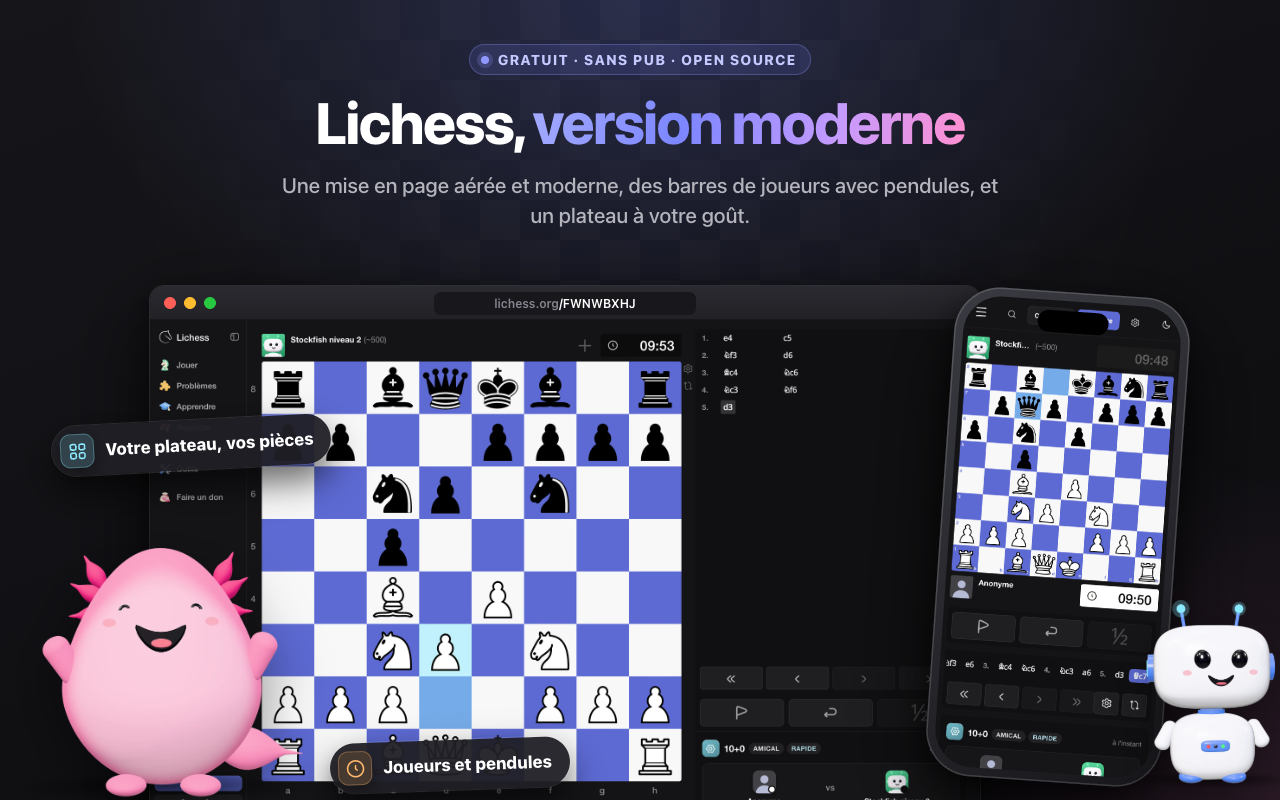
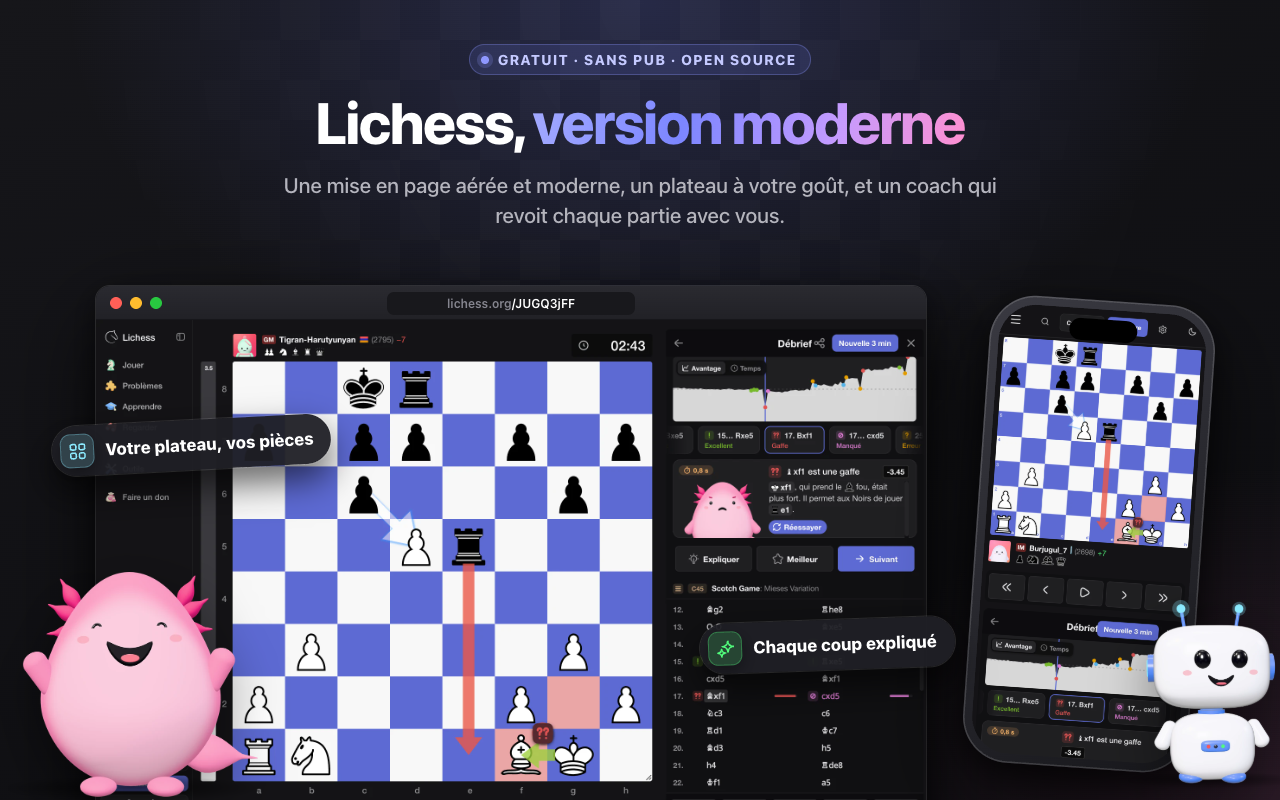
Show a game's Debrief on the first store image

Changed region(s): [[0.0, 0.3438, 0.9688, 1.0], [0.2188, 0.2188, 0.7812, 0.2812], [0.5625, 0.9688, 0.625, 1.0]]

diff --git a/store/templates/1-game.html b/store/templates/1-game.html
@@ -27,21 +27,21 @@
 
   .window {
     top: 286px;
-    left: 150px;
+    left: 96px;
     width: 830px;
   }
 
   .phone {
-    top: 292px;
-    left: 940px;
-    width: 236px;
+    top: 300px;
+    left: 976px;
+    width: 226px;
     transform: rotate(4deg);
   }
 
   .axolotl {
-    top: 548px;
-    left: 26px;
-    height: 252px;
+    top: 572px;
+    left: 8px;
+    height: 228px;
   }
 
   .robot {
@@ -56,9 +56,9 @@
     transform: rotate(-3deg);
   }
 
-  .bars {
-    top: 740px;
-    left: 330px;
+  .explained {
+    top: 620px;
+    left: 700px;
     transform: rotate(-2deg);
   }
 </style>
@@ -67,22 +67,22 @@
   <span class="pill"><span lang="en">Free · No ads · Open source</span><span lang="fr">Gratuit · Sans pub · Open source</span></span>
   <h1 lang="en">Lichess, <em>made modern</em></h1>
   <h1 lang="fr">Lichess, <em>version moderne</em></h1>
-  <p class="sub" lang="en">A roomy, modern layout, player bars with clocks, and a board that’s yours.</p>
-  <p class="sub" lang="fr">Une mise en page aérée et moderne, des barres de joueurs avec pendules, et un plateau à votre goût.</p>
+  <p class="sub" lang="en">A roomy, modern layout, a board that’s yours, and a coach who goes over each game with you.</p>
+  <p class="sub" lang="fr">Une mise en page aérée et moderne, un plateau à votre goût, et un coach qui revoit chaque partie avec vous.</p>
 </header>
 
 <div class="window">
-  <p><span>lichess.org<b lang="en">/IFGhQdJO</b><b lang="fr">/FWNWBXHJ</b></span></p>
-  <img lang="en" src="shots/game-en.webp">
-  <img lang="fr" src="shots/game-fr.webp">
+  <p><span>lichess.org<b>/JUGQ3jFF</b></span></p>
+  <img lang="en" src="shots/review-blunder-en.webp">
+  <img lang="fr" src="shots/review-blunder-fr.webp">
 </div>
 <div class="phone">
-  <img lang="en" src="shots/phone-game-en.webp">
-  <img lang="fr" src="shots/phone-game-fr.webp">
+  <img lang="en" src="shots/phone-review-en.webp">
+  <img lang="fr" src="shots/phone-review-fr.webp">
 </div>
 
 <img class="coach axolotl" src="coaches/coach-4-delight.webp">
 <img class="coach robot" src="coaches/robot-2-happy.webp">
 
 <p class="chip board"><span class="tile cyan i-grid"></span><span lang="en">Your board, your pieces</span><span lang="fr">Votre plateau, vos pièces</span></p>
-<p class="chip bars"><span class="tile orange i-clock"></span><span lang="en">Player bars &amp; clocks</span><span lang="fr">Joueurs et pendules</span></p>
+<p class="chip explained"><span class="tile green i-sparkles"></span><span lang="en">Every move explained</span><span lang="fr">Chaque coup expliqué</span></p>

diff --git a/README.md b/README.md
@@ -8,7 +8,7 @@ game.
 Your Lichess account, your games and your friends don't change. Only the look
 and the sounds do.
 
-![A game on lichess.org with the extension, on a computer and on a phone](store/en/1-game.png)
+![A game's Debrief on lichess.org with the extension, on a computer and on a phone](store/en/1-game.png)
 
 ## What you get
 
